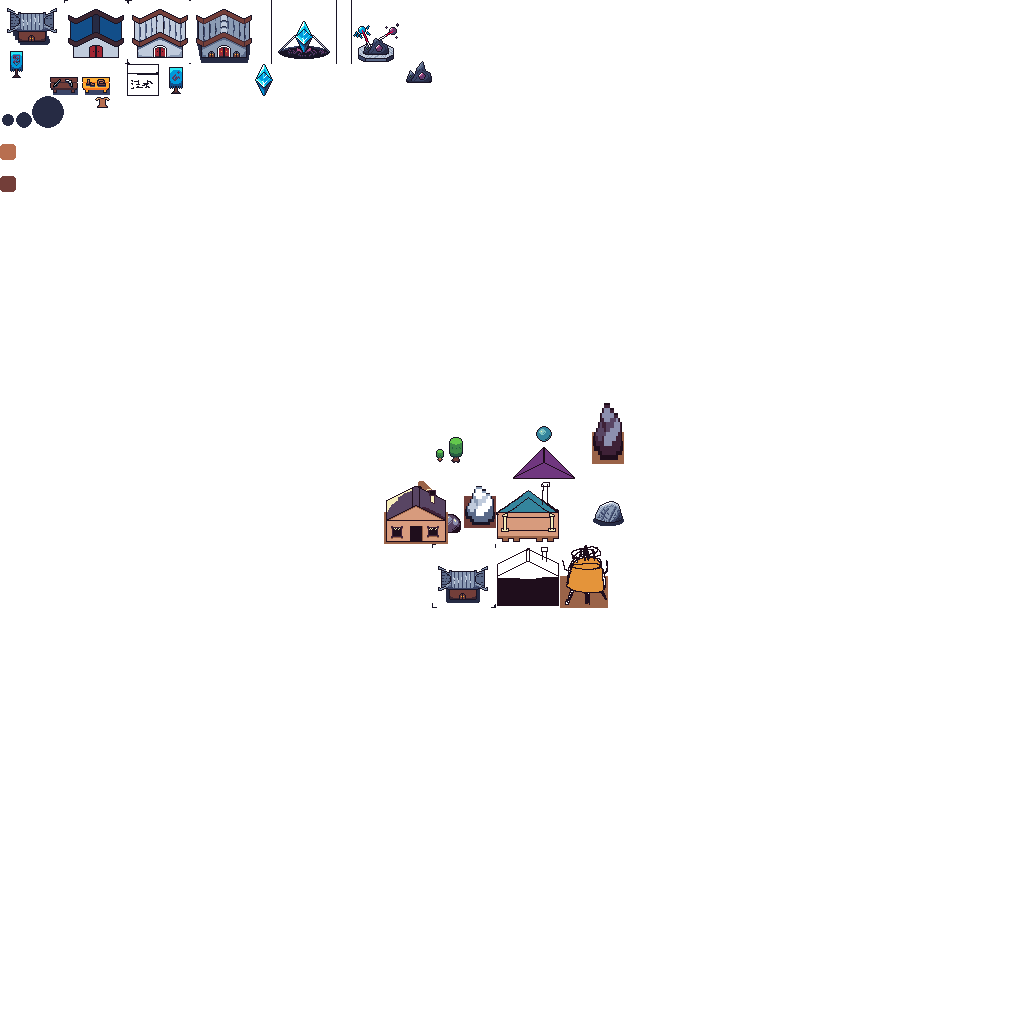
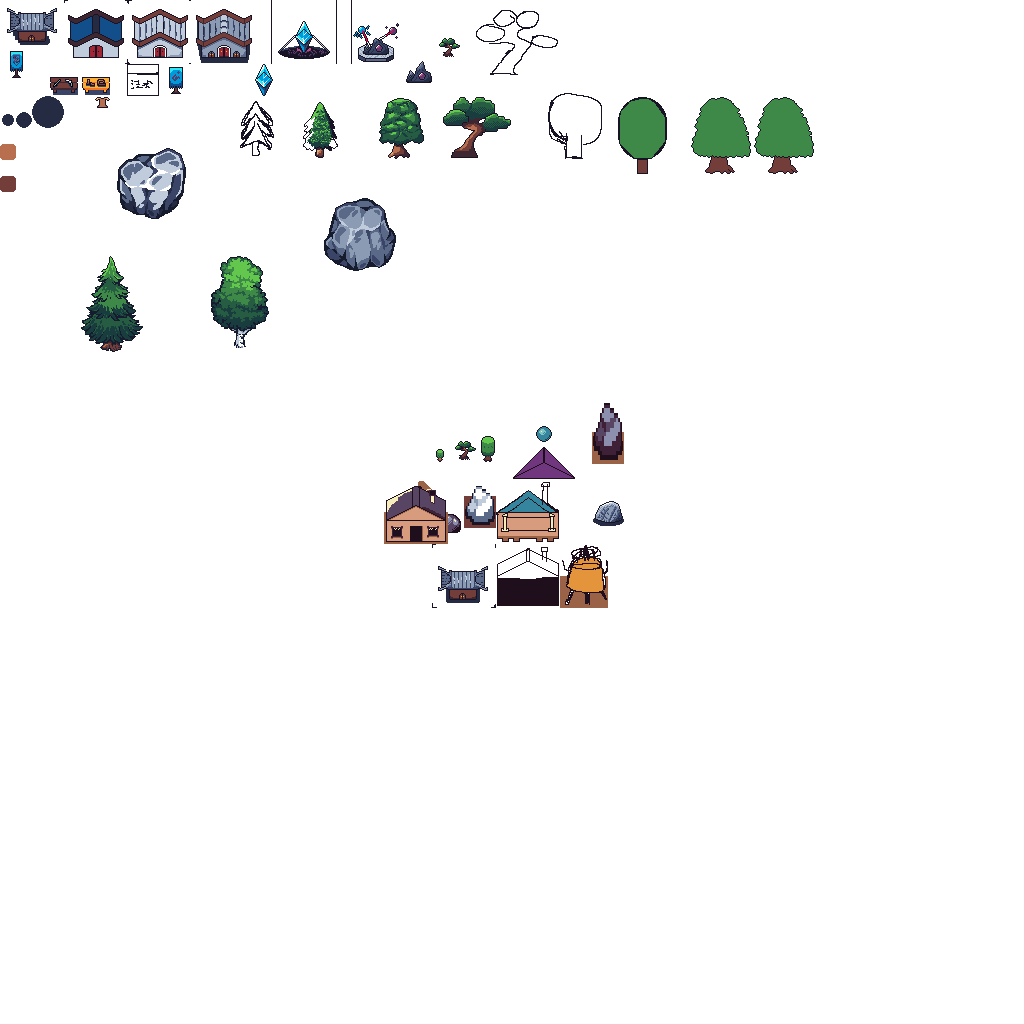
feat: 新增松柏/松树建筑类型，重做Tree/Stone碰撞体与外观，修复Fireball遍历bug

diff --git a/Scripts/System/ChunkSystem/ChunkManager.cs b/Scripts/System/ChunkSystem/ChunkManager.cs
@@ -192,9 +192,24 @@ namespace Solo.Scripts.System.ChunkSystem
                         Vector2 snapPos = GameManager.Instance.BuildingManager.SnapToCell(BuildingType.Tree, tileWorldPos + offset);
                         if (GameManager.Instance.BuildingManager.CanPlaced(BuildingType.Tree, snapPos) && WorldToChunkPos(snapPos) == chunkPos)
                         {
-                            Tree tree = GD.Load<PackedScene>(BuildingDataManager.Instance.GetBuildingData(BuildingType.Tree).TscnPath).Instantiate<Tree>();
-                            GetTree().CurrentScene.AddChild(tree);
-                            tree.Init(BuildingType.Tree, snapPos);
+                            if (GD.Randf() < 0.4)
+                            {
+                                Tree tree = GD.Load<PackedScene>(BuildingDataManager.Instance.GetBuildingData(BuildingType.Tree).TscnPath).Instantiate<Tree>();
+                                GetTree().CurrentScene.AddChild(tree);
+                                tree.Init(BuildingType.Tree, snapPos);
+                            }
+                            else if (GD.Randf() < 0.8)
+                            {
+                                Tree tree = GD.Load<PackedScene>(BuildingDataManager.Instance.GetBuildingData(BuildingType.SongShu).TscnPath).Instantiate<Tree>();
+                                GetTree().CurrentScene.AddChild(tree);
+                                tree.Init(BuildingType.SongShu, snapPos);
+                            }
+                            //else
+                            //{
+                            //    Tree tree = GD.Load<PackedScene>(BuildingDataManager.Instance.GetBuildingData(BuildingType.SongBai).TscnPath).Instantiate<Tree>();
+                            //    GetTree().CurrentScene.AddChild(tree);
+                            //    tree.Init(BuildingType.SongBai, snapPos);
+                            //}
                         }
                     }
                     else if (rd < 0.15)

diff --git a/Scripts/System/BuildingSystem/BuildingDataManager.cs b/Scripts/System/BuildingSystem/BuildingDataManager.cs
@@ -19,12 +19,32 @@ namespace Solo.Scripts.System.BuildingSystem
             _buildingDataMap.Add(BuildingType.Tree, new BuildingData()
             {
                 TargetType = TargetType.Tree,
-                Width = 1,
+                Width = 2,
                 Height = 1,
                 //TextureHeight = 2,
                 MaxHp = 100,
                 TexturePath = "res://Assets/AtlasTextures/Tree.tres",
                 TscnPath = "res://Scenes/System/BuildingSystem/Buildings/Tree.tscn",
+                DropItemList = new List<(ItemType, int, int)>() { (ItemType.Wood, 2, 6), },
+            });
+            _buildingDataMap.Add(BuildingType.SongShu, new BuildingData()
+            {
+                TargetType = TargetType.Tree,
+                Width = 2,
+                Height = 1,
+                MaxHp = 100,
+                TexturePath = "res://Assets/AtlasTextures/SongShu.tres",
+                TscnPath = "res://Scenes/System/BuildingSystem/Buildings/SongShu.tscn",
+                DropItemList = new List<(ItemType, int, int)>() { (ItemType.Wood, 2, 6), },
+            });
+            _buildingDataMap.Add(BuildingType.SongBai, new BuildingData()
+            {
+                TargetType = TargetType.Tree,
+                Width = 2,
+                Height = 1,
+                MaxHp = 100,
+                TexturePath = "res://Assets/AtlasTextures/SongBai.tres",
+                TscnPath = "res://Scenes/System/BuildingSystem/Buildings/SongBai.tscn",
                 DropItemList = new List<(ItemType, int, int)>() { (ItemType.Wood, 2, 6), },
             });
             _buildingDataMap.Add(BuildingType.Stone, new BuildingData()

diff --git a/Scripts/System/BuildingSystem/Buildings/Tree.cs b/Scripts/System/BuildingSystem/Buildings/Tree.cs
@@ -3,16 +3,6 @@ namespace Solo.Scripts.System.BuildingSystem.Buildings
 {
     public partial class Tree : Building
     {
-        //// Called when the node enters the scene tree for the first time.
-        //public override void _Ready()
-        //{
-        //}
-
-        //// Called every frame. 'delta' is the elapsed time since the previous frame.
-        //public override void _Process(double delta)
-        //{
-        //}
-
         protected override float HandleDamage(float damage, ItemType? itemType)
         {
             switch (itemType)

diff --git a/Scripts/System/ItemSystem/Projectiles/Fireball.cs b/Scripts/System/ItemSystem/Projectiles/Fireball.cs
@@ -50,7 +50,8 @@ namespace Solo.Scripts.System.ItemSystem
         {
             if (body is ITargetable target && target != _projecter && target is not DropItem)
             {
-                foreach (ITargetable targetable in _explosionTargetList)
+                var targets = new List<ITargetable>(_explosionTargetList);
+                foreach (ITargetable targetable in targets)
                 {
                     if (targetable.IsVaild())
                     {

diff --git a/Scripts/System/BuildingSystem/Buildings/SongBai.cs b/Scripts/System/BuildingSystem/Buildings/SongBai.cs
@@ -1,0 +1,15 @@
+using Godot;
+using System;
+
+public partial class SongBai : StaticBody2D
+{
+	// Called when the node enters the scene tree for the first time.
+	public override void _Ready()
+	{
+	}
+
+	// Called every frame. 'delta' is the elapsed time since the previous frame.
+	public override void _Process(double delta)
+	{
+	}
+}

diff --git a/Scripts/Global/Enums.cs b/Scripts/Global/Enums.cs
@@ -84,6 +84,8 @@
     {
         Water,//水上无法拍建筑
         Tree,
+        SongBai,//松柏
+        SongShu,//松树
         Stone,
         MainBase,//聚灵之源
         Flag,//法旗
